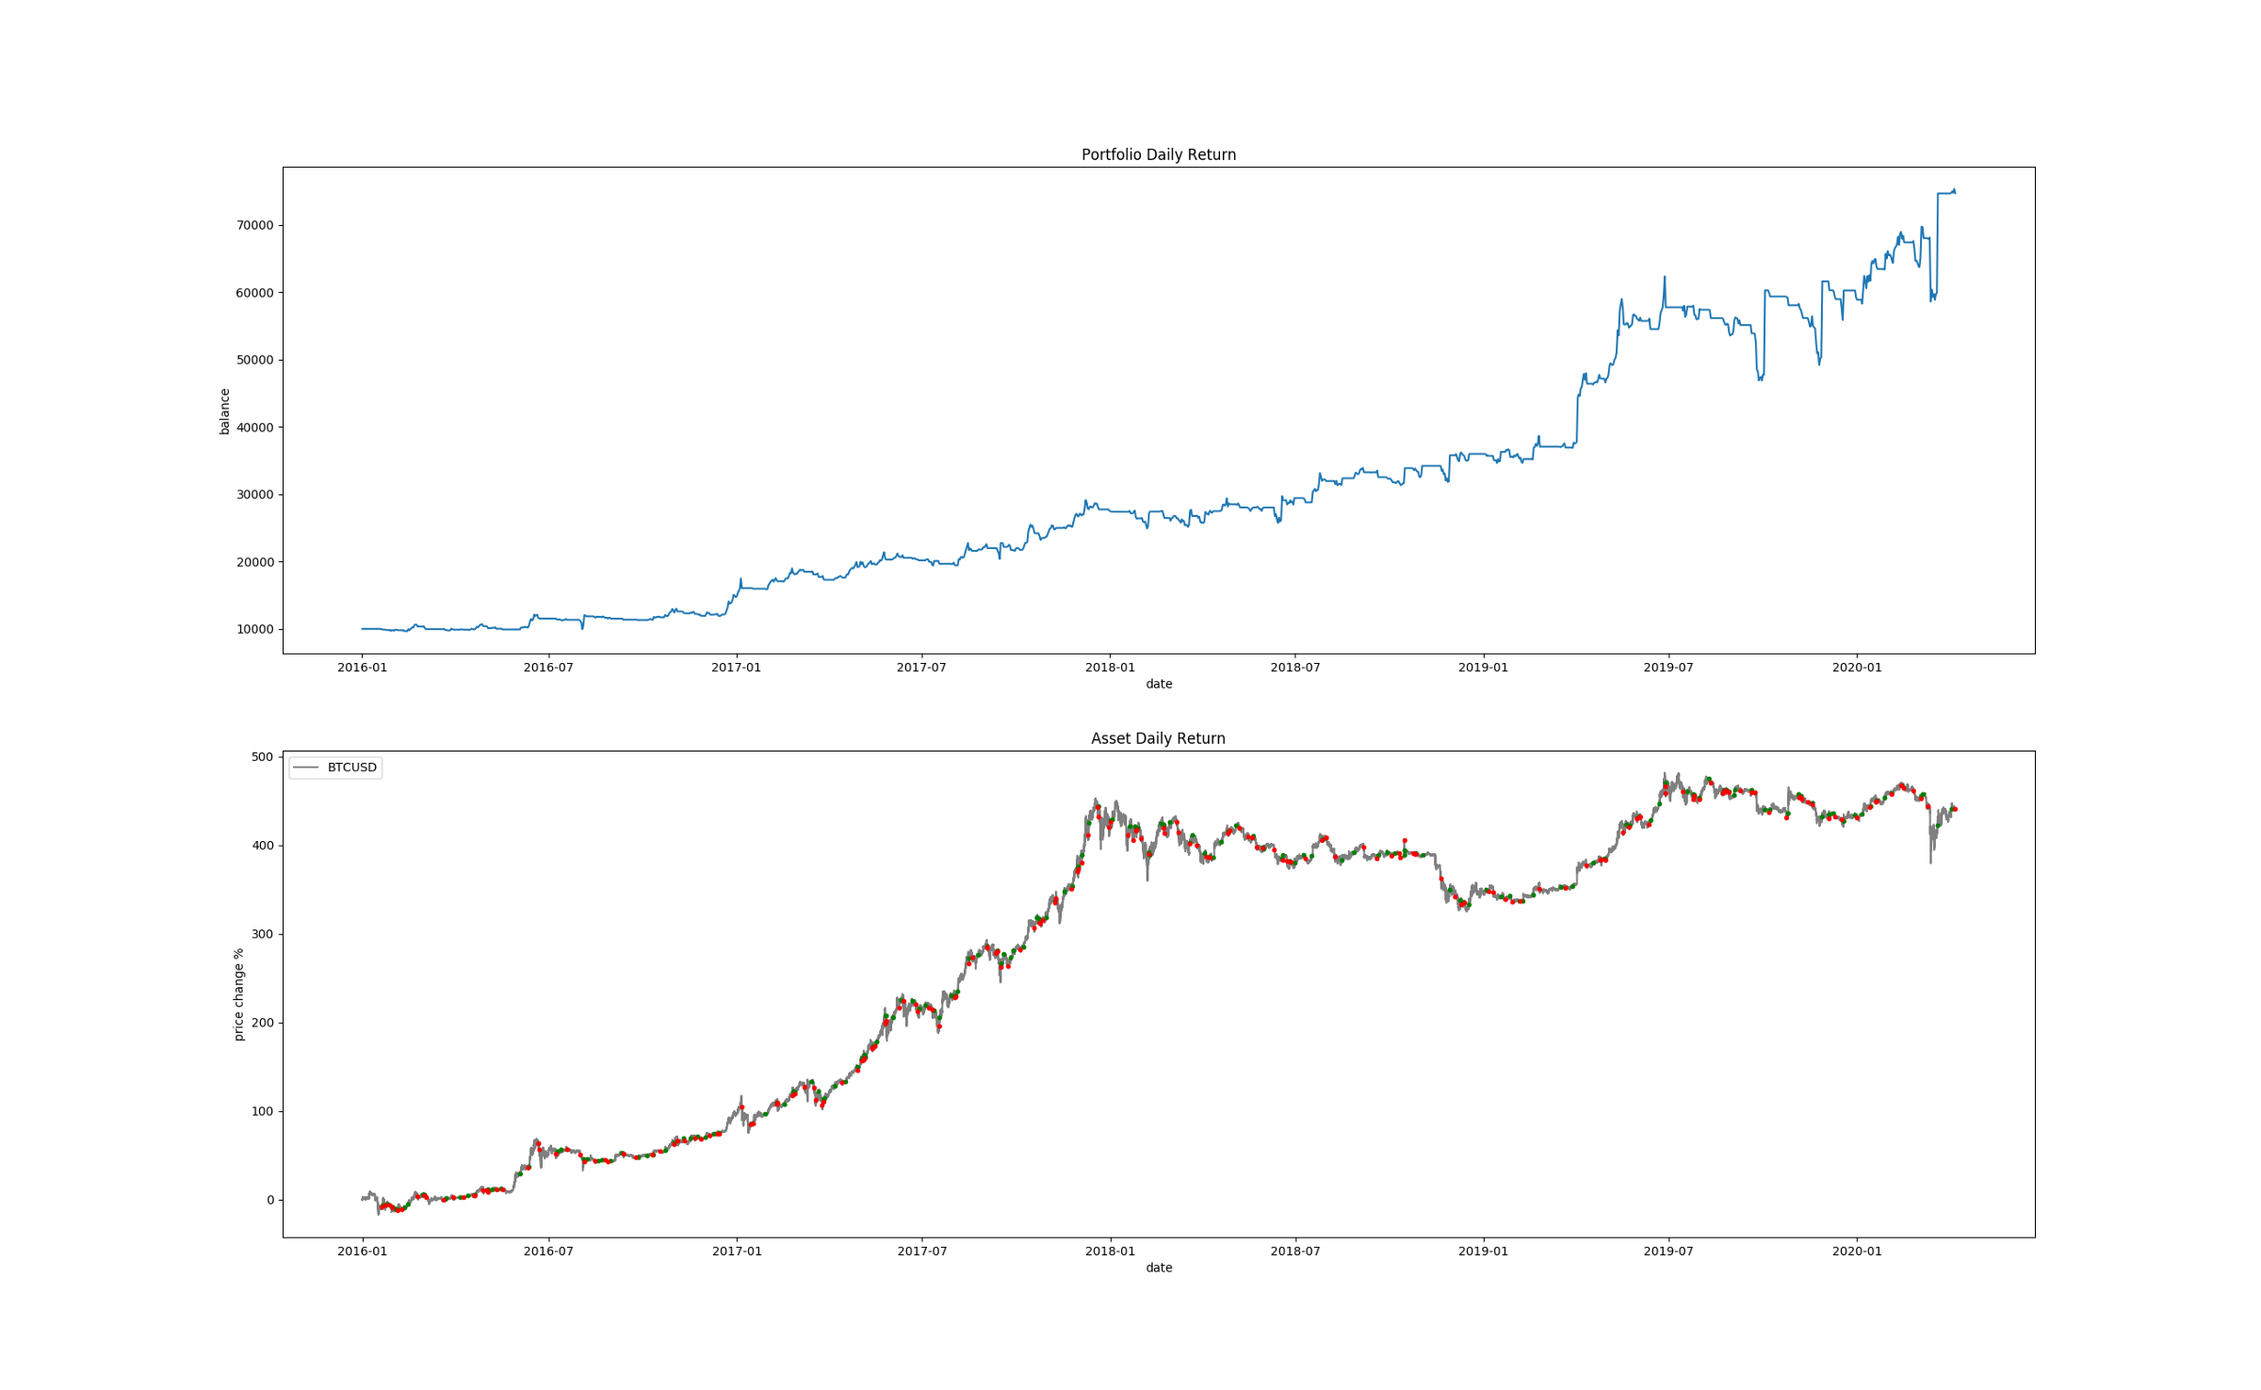
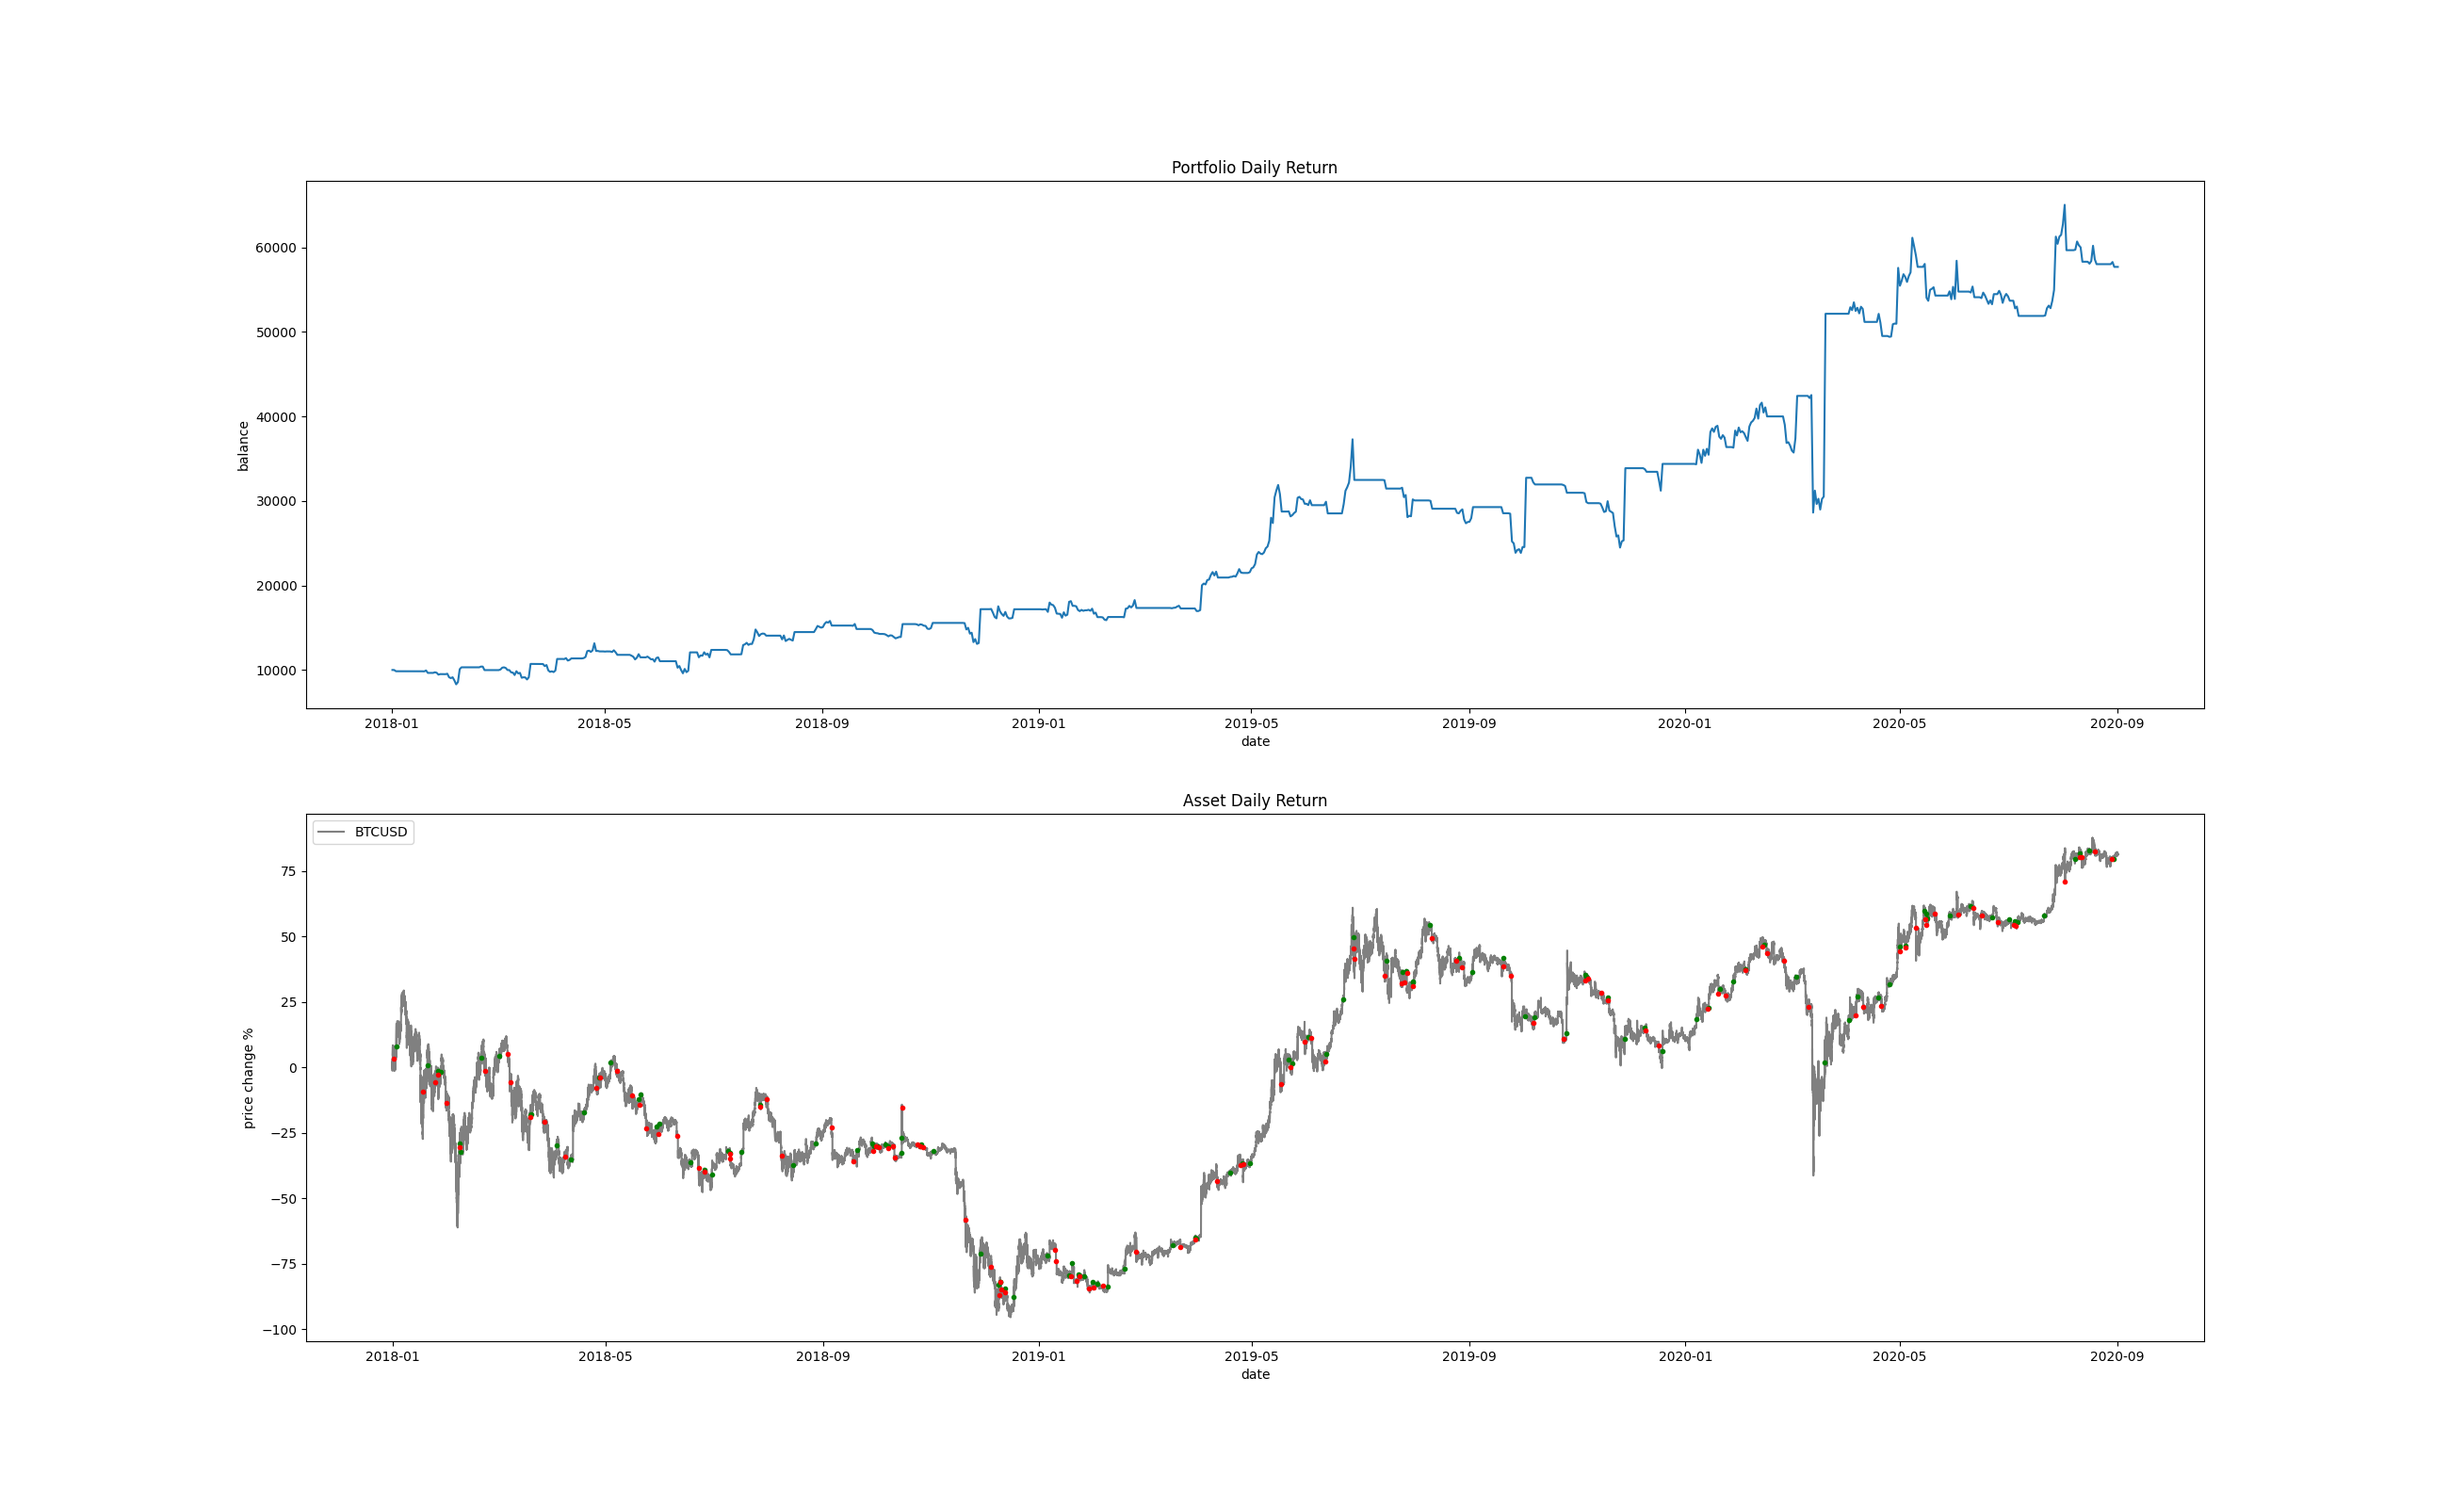
update examples on the README

diff --git a/README.md b/README.md
@@ -28,37 +28,49 @@ Check out Jesse's [blog](https://jesse-ai.com/blog) for tutorials that go throug
 
 Here's an example output for a backtest simulation just to get you excited:
 ```
-CANDLES               |
+ CANDLES              |
 ----------------------+--------------------------
- period               |   1557 days (4.27 years)
- starting-ending date | 2016-01-01 => 2020-04-06
+ period               |    974 days (2.67 years)
+ starting-ending date | 2018-01-01 => 2020-09-01
 
-exchange    | symbol   | timeframe   | strategy           | DNA
-------------+----------+-------------+--------------------+-------
- Bitfinex   | BTCUSD   | 6h          | TrendFollowingStrategy |
+
+ exchange   | symbol   | timeframe   | strategy         |   DNA
+------------+----------+-------------+------------------+-------
+ Bitfinex   | BTCUSD   | 6h          | TrendFollowing05 |
+
 
 Executing simulation...  [####################################]  100%
-Executed backtest simulation in:  107.89 seconds
+Executed backtest simulation in:  68.13 seconds
 
-METRICS                          |
----------------------------------+------------------------------------
- Total Closed Trades             |                                192
- Total Net Profit                |                 64735.12 (647.35%)
- Starting => Finishing Balance   |                   10000 => 74659.0
- Total Open Trades               |                                  0
- Open PL                         |                                  0
- Total Paid Fees                 |                           10620.84
- Max Drawdown                    |                            -24.83%
- Sharpe Ratio                    |                                1.2
- Annual Return                   |                             38.43%
- Expectancy                      |                     337.16 (3.37%)
- Avg Win | Avg Loss              |                   1261.49 | 351.89
- Ratio Avg Win / Avg Loss        |                               3.58
- Percent Profitable              |                                43%
- Longs | Shorts                  |                          58% | 42%
- Avg Holding Time                | 3.0 days, 20.0 hours, 15.0 minutes
- Winning Trades Avg Holding Time | 6.0 days, 11.0 hours, 19.0 minutes
- Losing Trades Avg Holding Time  |  1.0 day, 21.0 hours, 14.0 minutes
+
+ METRICS                         |
+---------------------------------+--------------------------------------
+ Total Closed Trades             |                                  112
+ Total Net Profit                |                   47767.14 (477.67%)
+ Starting => Finishing Balance   |                    10000 => 57685.82
+ Total Open Trades               |                                    0
+ Open PL                         |                                    0
+ Total Paid Fees                 |                              10384.3
+ Max Drawdown                    |                              -36.05%
+ Annual Return                   |                               57.29%
+ Expectancy                      |                       426.49 (4.26%)
+ Avg Win | Avg Loss              |                     1609.68 | 527.69
+ Ratio Avg Win / Avg Loss        |                                 3.05
+ Percent Profitable              |                                  45%
+ Longs | Shorts                  |                            48% | 52%
+ Avg Holding Time                |   3.0 days, 12.0 hours, 16.0 minutes
+ Winning Trades Avg Holding Time | 6.0 days, 41.0 minutes, 44.0 seconds
+ Losing Trades Avg Holding Time  |    1.0 day, 11.0 hours, 32.0 minutes
+ Sharpe Ratio                    |                                 0.99
+ Calmar Ratio                    |                                 1.59
+ Sortino Ratio                   |                                 2.24
+ Omega Ratio                     |                                 1.45
+ Winning Streak                  |                                    4
+ Losing Streak                   |                                    7
+ Largest Winning Trade           |                              9755.96
+ Largest Losing Trade            |                              -1859.7
+ Total Winning Trades            |                                   50
+ Total Losing Trades             |                                   62
 ```
 
 And here are generated charts:
